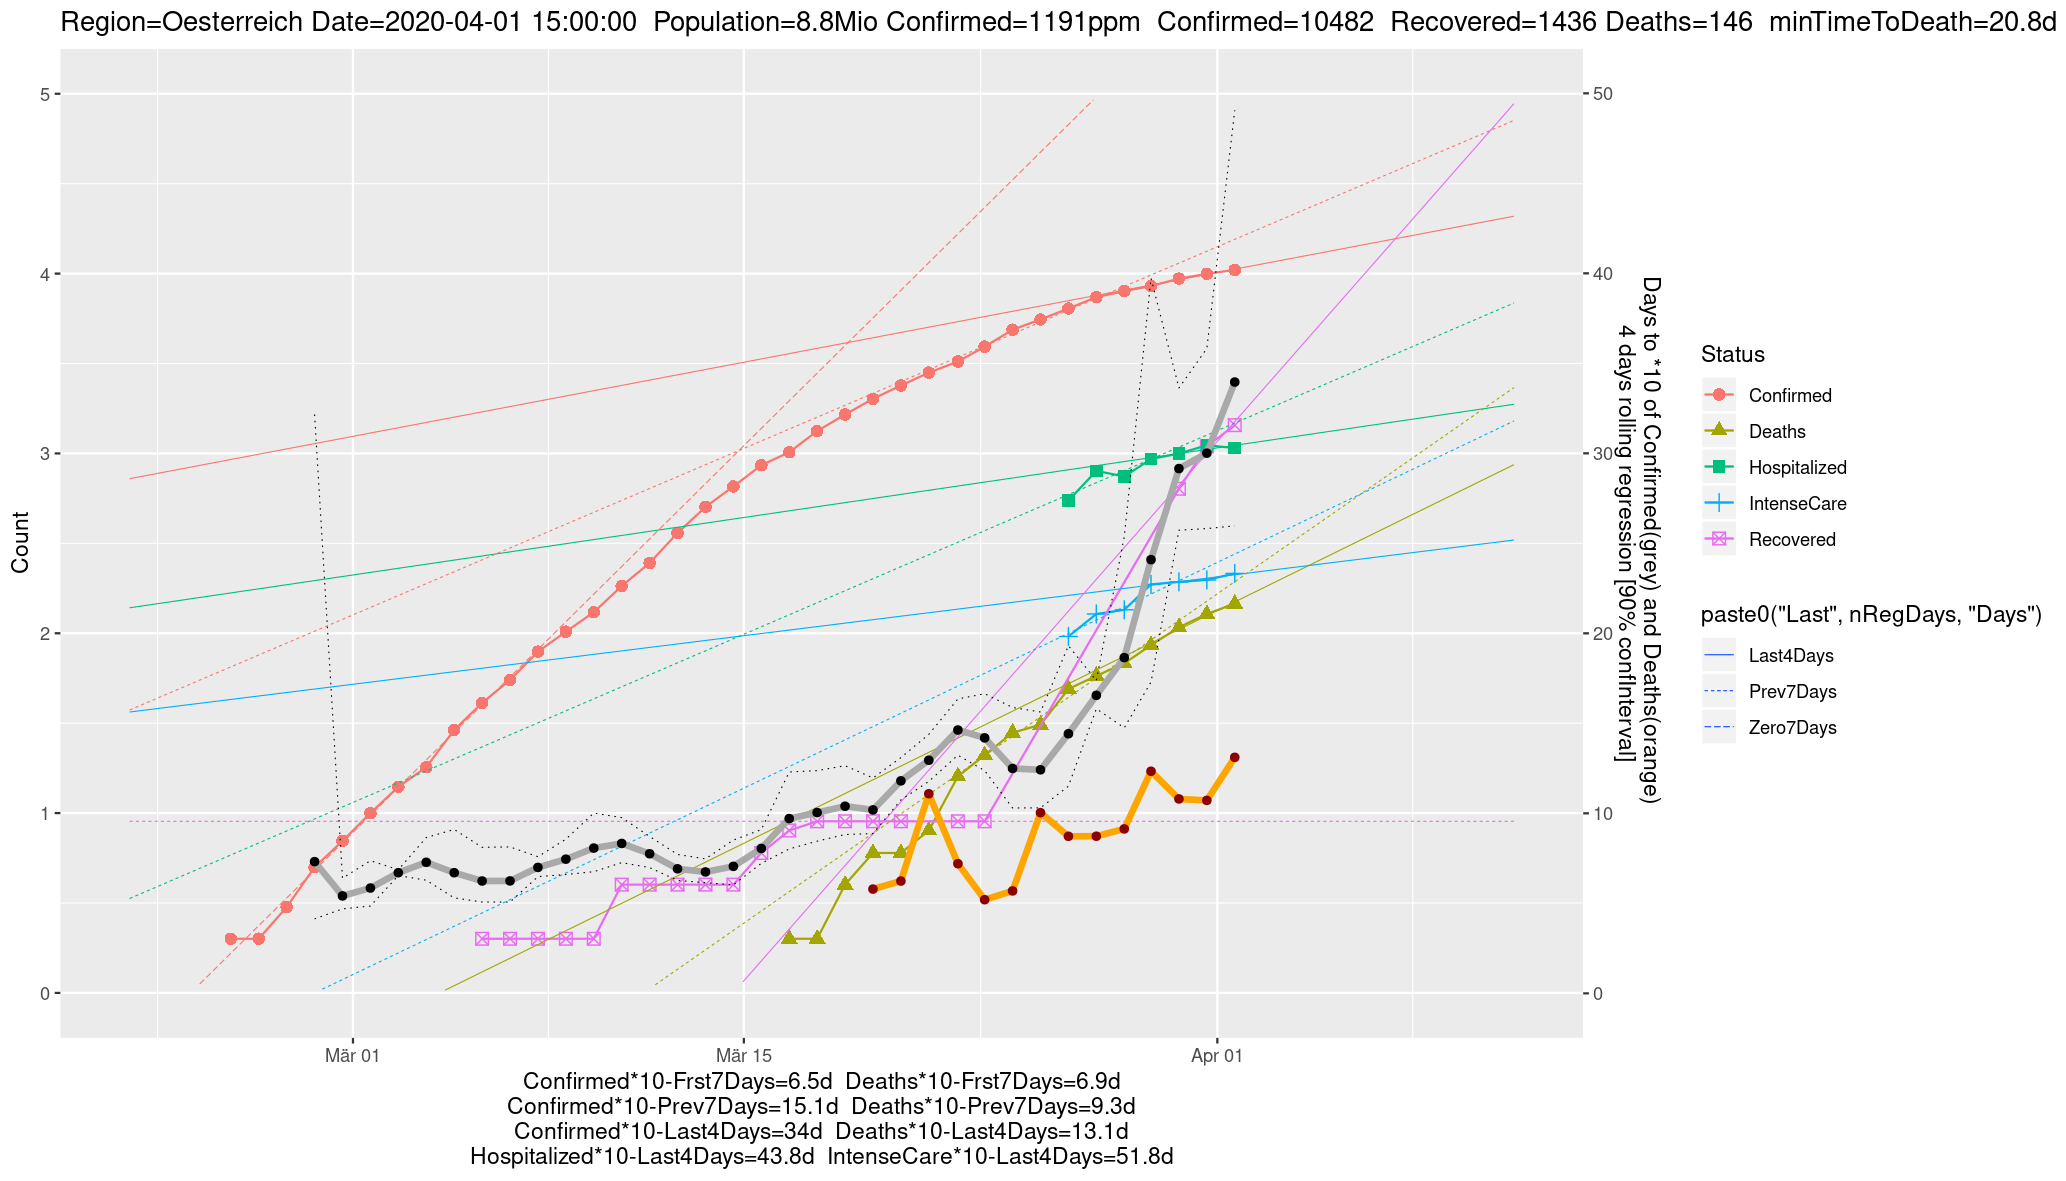
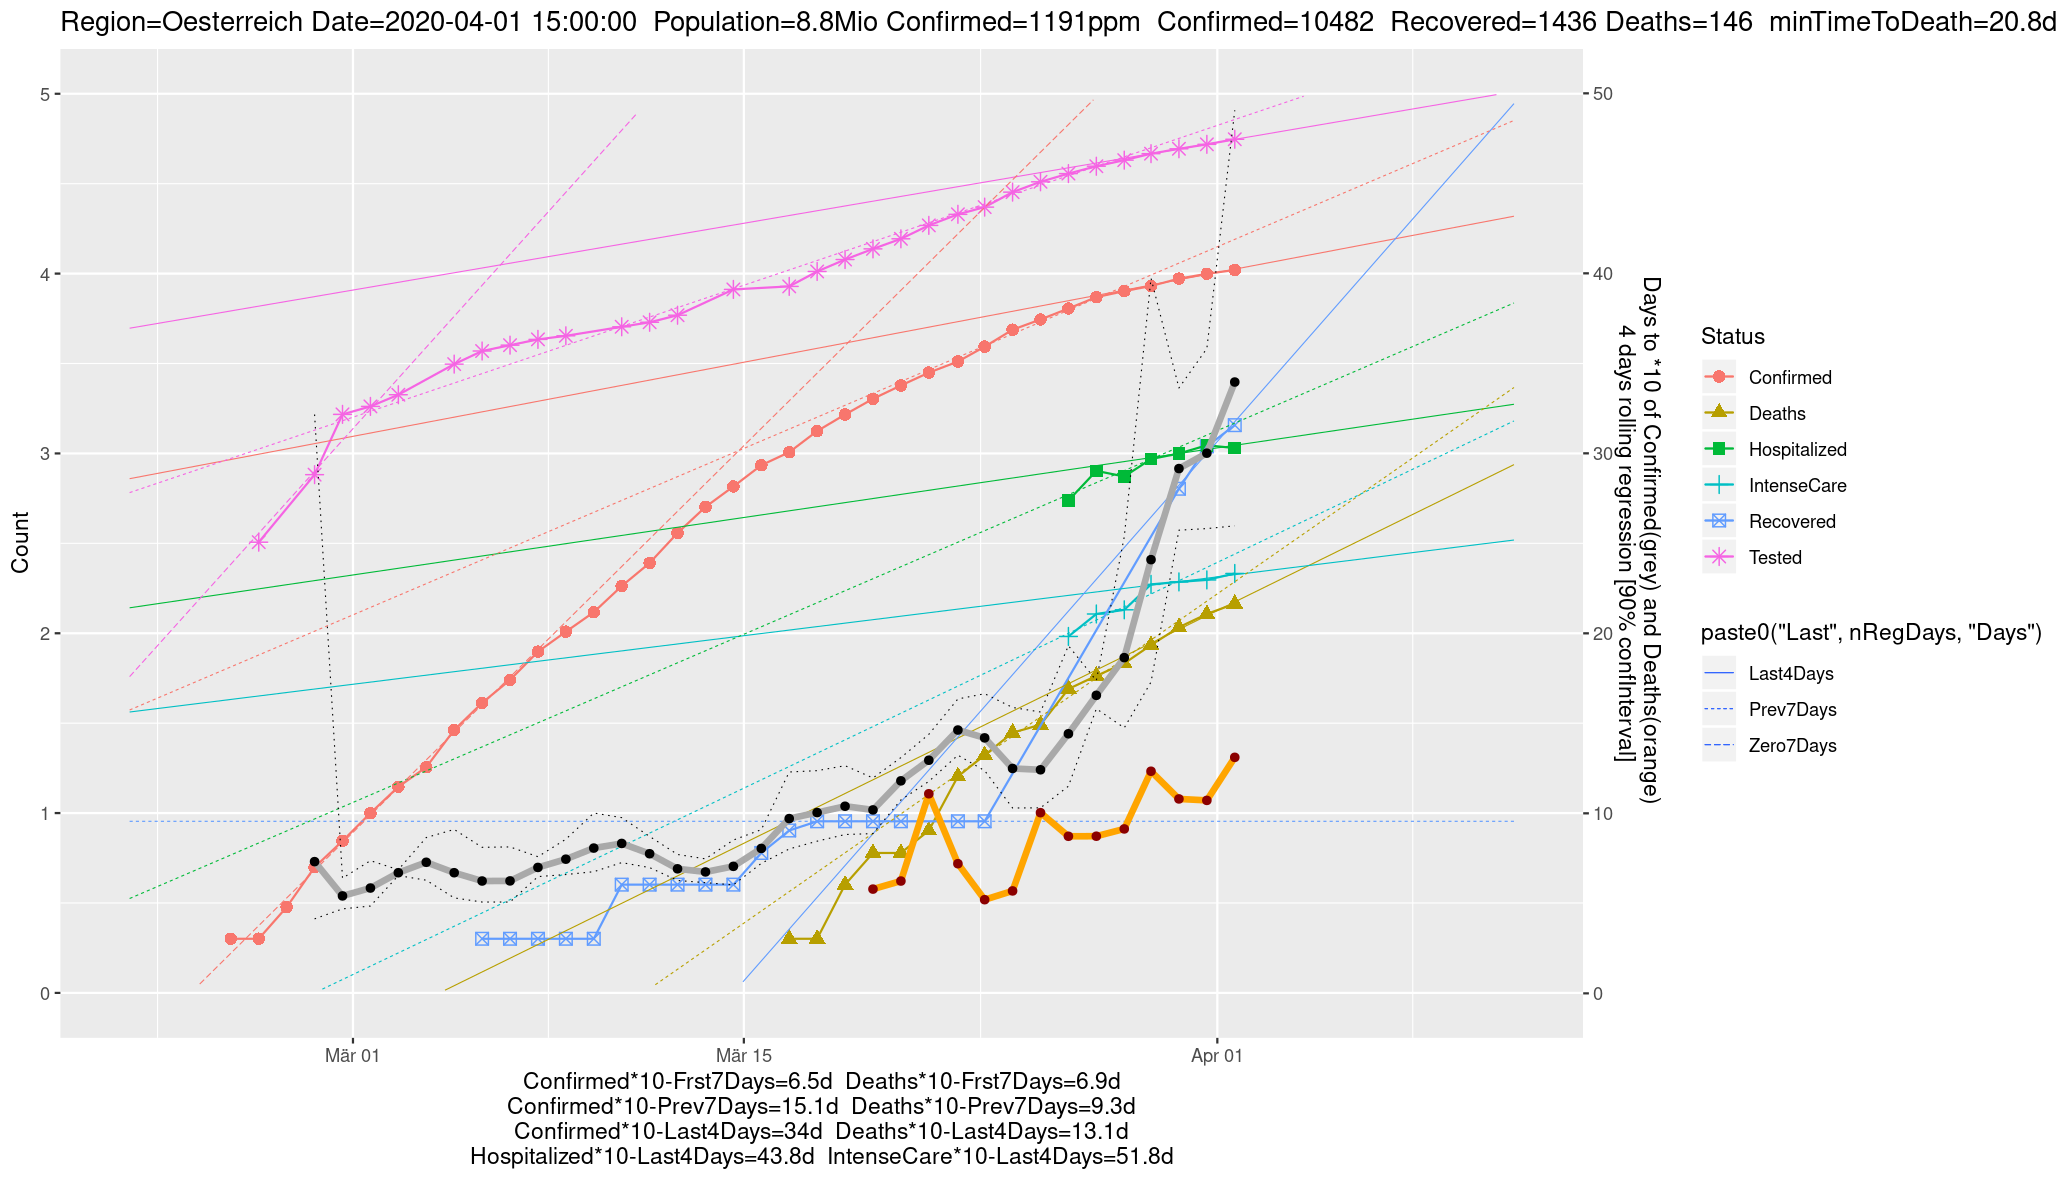
Add 'Tested' to plot

diff --git a/README.md b/README.md
@@ -5,7 +5,8 @@
 - 'number of days until times ten cases': This is the main unit for speed of spread of COVID-19 used for all estimates
 
 ## News and Enhancements
-- 2020-04-01: Add line on plot for rolling regression of number of days till deaths*10. Plotted in orange/red
+- 2020-04-01: Add 'Tested' to plot
+- 2020-03-31: Add line on plot for rolling regression of number of days till deaths*10. Plotted in orange/red
 - 2020-03-30: Add extractor for IBM covid-county project. This is scraper platform with a configurable scraper per country
 - 2020-03-29: Create plots of current state of measures taken. *10 for confirmed cases is 24 days now. Not good enough  yet
 - 2020-03-27: Nominated country lead for IBM covid-county data scraper project. New routines to convert to their data format
